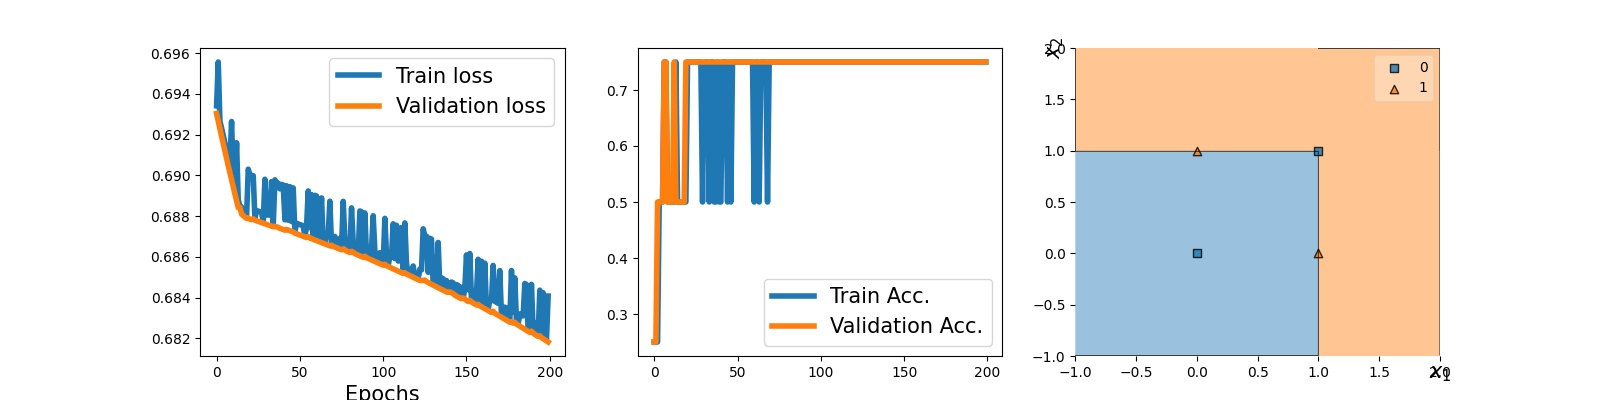
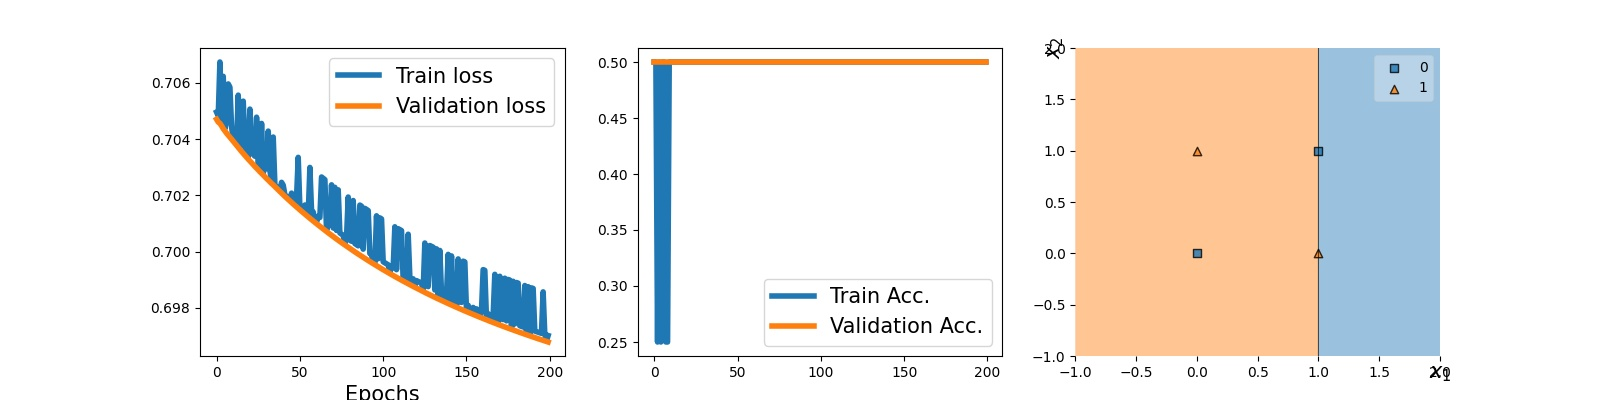
Committed 2021/4/28

diff --git a/Soft Computing 2021/Particle_Swarm_Optimization2.py b/Soft Computing 2021/Particle_Swarm_Optimization2.py
@@ -1,0 +1,75 @@
+import tensorflow as tf
+import numpy as np
+import matplotlib.pyplot as plt
+import keras
+from keras.utils import plot_model
+from mlxtend.plotting import plot_decision_regions
+
+x_train = np.array([ [1, 1], [1, 0], [0, 1], [0, 0] ])
+print(x_train)
+
+y_train = np.array([0, 1, 1, 0])
+print(y_train)
+
+x_valid = np.array([[1, 0], [1, 1], [0, 0], [0, 1]])
+y_valid = np.array([1, 0, 0, 1])
+
+# Construct a feedforward NN with three hidden layers.
+model = keras.Sequential()
+model.add(keras.layers.Dense(units=4, input_shape=(2, ), activation="relu"))
+model.add(keras.layers.Dense(units=4, activation="relu"))
+model.add(keras.layers.Dense(units=4, activation="relu"))
+model.add(keras.layers.Dense(units=1, activation="sigmoid"))
+
+print(model.summary())
+
+plot_model(model=model, show_shapes=True, show_layer_names=True)
+
+
+# Compile
+model.compile(optimizer=keras.optimizers.SGD(), loss=keras.losses.BinaryCrossentropy(),
+              metrics=[keras.metrics.BinaryAccuracy()])
+
+# Train
+hist = model.fit(x=x_train, y=y_train, validation_data=(x_valid, y_valid), epochs=200,
+                 batch_size=2)
+
+print(hist.history)
+
+# plot
+history = hist.history
+figure = plt.figure(figsize=(16, 4))
+ax = figure.add_subplot(1, 3, 1)
+plt.plot(history["loss"], lw=4)
+plt.plot(history["val_loss"], lw=4)
+plt.legend(["Train loss", "Validation loss"], fontsize=15)
+
+ax.set_xlabel("Epochs", size=15)
+
+ax = figure.add_subplot(1, 3, 2)
+
+plt.plot(history["binary_accuracy"], lw=4)
+
+plt.plot(history["val_binary_accuracy"], lw=4)
+
+plt.legend(["Train Acc.", "Validation Acc."], fontsize=15)
+
+ax = figure.add_subplot(1, 3, 3)
+
+plot_decision_regions(X=x_valid, y=y_valid, clf=model)
+
+ax.set_xlabel(r'$x_1$', size=15)
+
+ax.xaxis.set_label_coords(1, -0.025)
+
+ax.set_ylabel(r'$x_2$', size=15)
+
+ax.yaxis.set_label_coords(-0.025, 1)
+
+plt.savefig("PSO_1st_half2.jpg")
+
+plt.show()
+
+# Future work
+
+## follow https://pyswarms.readthedocs.io/en/latest/examples/tutorials/basic_optimization.html#Optimizing-a-function to optimize the weights.
